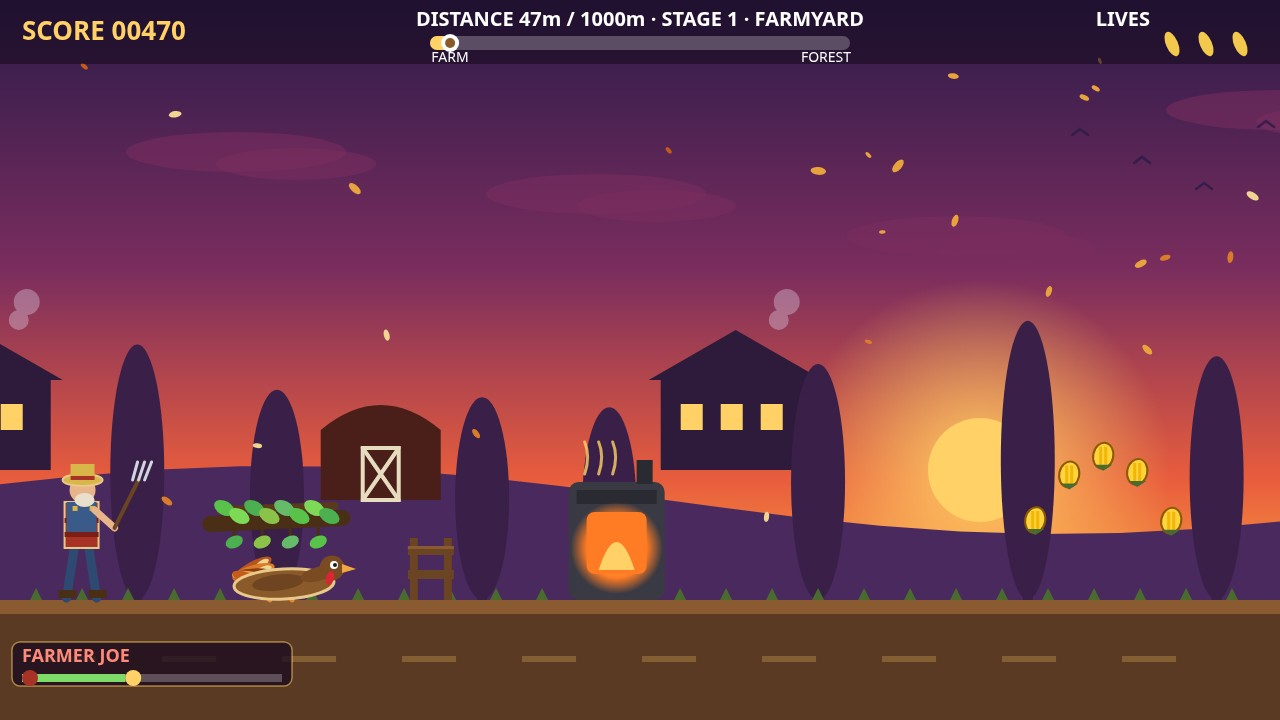
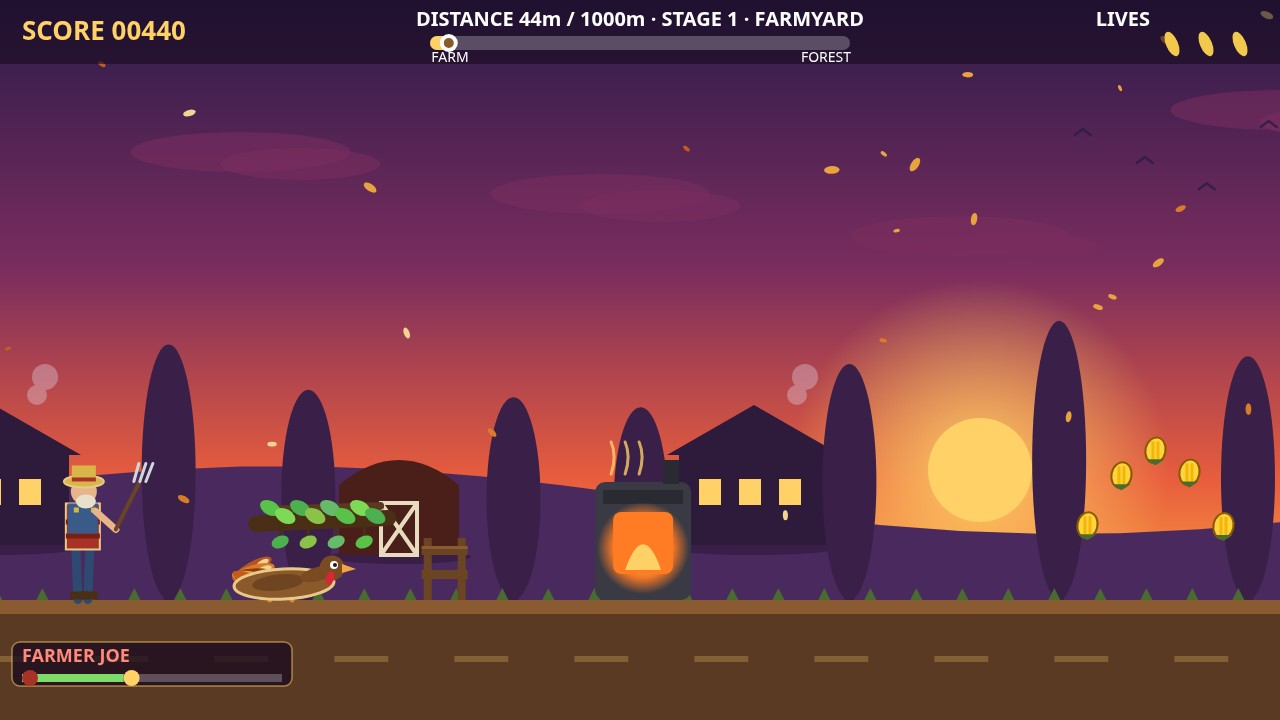
Revision v10: ground the farmhouse and barn — bases sunk below the deepest hill crest (470→545, 500→555) with contact shadows; v9 left up to ~48px of sky under the house so it read as floating

diff --git a/game/src/world.js b/game/src/world.js
@@ -1,6 +1,14 @@
 // Feast or Flight — the sunset farm world.
 // Parallax layers: sky, sun, clouds, hills, farmhouse, barn, trees, then
 // the dirt path the turkey runs on, with drifting autumn leaves.
+//
+// GROUNDING (v10): the far-hill crest is 500 - sin(...)*34, so it ranges
+// y 466-534 as the run scrolls. The farmhouse used to sit at baseY 470
+// and the barn at 500 — both ABOVE the crest at most scroll phases,
+// leaving up to ~48px of bright sky under the building, so the house
+// read as floating (Ban caught it). Both bases now sit BELOW the
+// deepest possible crest (534) with a contact shadow, so the buildings
+// are sunk into the hillside at every scroll phase and can never float.
 
 // Stage palettes: the run's three places share the sunset family but
 // read differently — farmyard (baseline), kitchen yard (warmer, deeper
@@ -145,11 +153,12 @@ function worldDraw(ctx, world, distance, time) {
   ctx.closePath();
   ctx.fill();
 
-  // Farmhouse and barn silhouettes (parallax 0.35).
+  // Farmhouse and barn silhouettes (parallax 0.35). Bases sit below the
+  // deepest hill crest (534) so they are always sunk into the hillside.
   const farmX = 180 - ((world.scroll * 0.35) % 1500);
-  drawFarmhouse(ctx, farmX, 470);
-  drawFarmhouse(ctx, farmX + 760, 470);
-  drawBarn(ctx, farmX + 420, 500);
+  drawFarmhouse(ctx, farmX, 545);
+  drawFarmhouse(ctx, farmX + 760, 545);
+  drawBarn(ctx, farmX + 420, 555);
 
   // Kitchen-yard smoke: in stage 2 the ovens are cooking, so the
   // farmhouse chimneys breathe harder — extra puffs rising above the
@@ -160,7 +169,7 @@ function worldDraw(ctx, world, distance, time) {
       for (let i = 0; i < 3; i++) {
         const rise = (time * 12 + i * 45) % 135;
         const px = cx + Math.sin(time + i * 2) * 6;
-        const py = 470 - 150 - rise;
+        const py = 545 - 150 - rise;
         ctx.beginPath();
         ctx.arc(px, py, 8 + i * 2, 0, Math.PI * 2);
         ctx.fill();
@@ -238,6 +247,13 @@ function worldDraw(ctx, world, distance, time) {
 }
 
 function drawFarmhouse(ctx, x, baseY) {
+  // Contact shadow: a dark smudge on the hillside under the base, so the
+  // building reads as sitting on the hill even where hill and house
+  // colours are close (stage 3).
+  ctx.fillStyle = 'rgba(20, 8, 20, 0.3)';
+  ctx.beginPath();
+  ctx.ellipse(x + 75, baseY + 2, 88, 8, 0, 0, Math.PI * 2);
+  ctx.fill();
   ctx.fillStyle = '#2e1a3a';
   ctx.fillRect(x, baseY - 90, 150, 90);
   ctx.beginPath();
@@ -260,6 +276,11 @@ function drawFarmhouse(ctx, x, baseY) {
 }
 
 function drawBarn(ctx, x, baseY) {
+  // Contact shadow under the base, same reason as the farmhouse.
+  ctx.fillStyle = 'rgba(20, 8, 20, 0.3)';
+  ctx.beginPath();
+  ctx.ellipse(x + 60, baseY + 2, 72, 7, 0, 0, Math.PI * 2);
+  ctx.fill();
   ctx.fillStyle = '#4a1f1a';
   ctx.fillRect(x, baseY - 70, 120, 70);
   ctx.beginPath();
